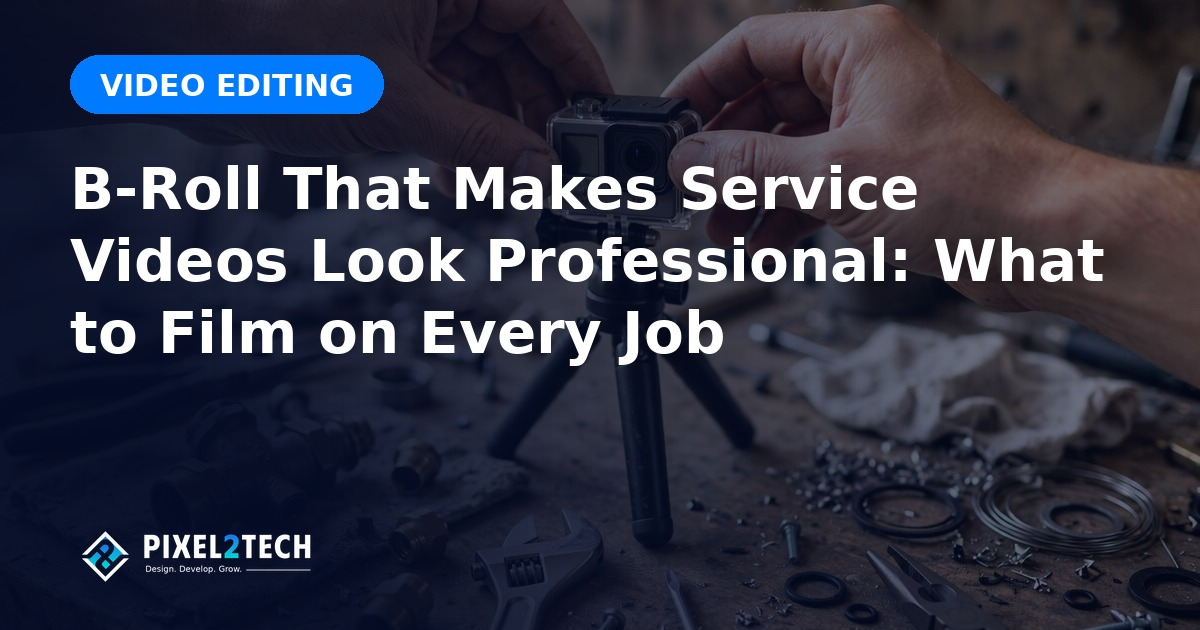
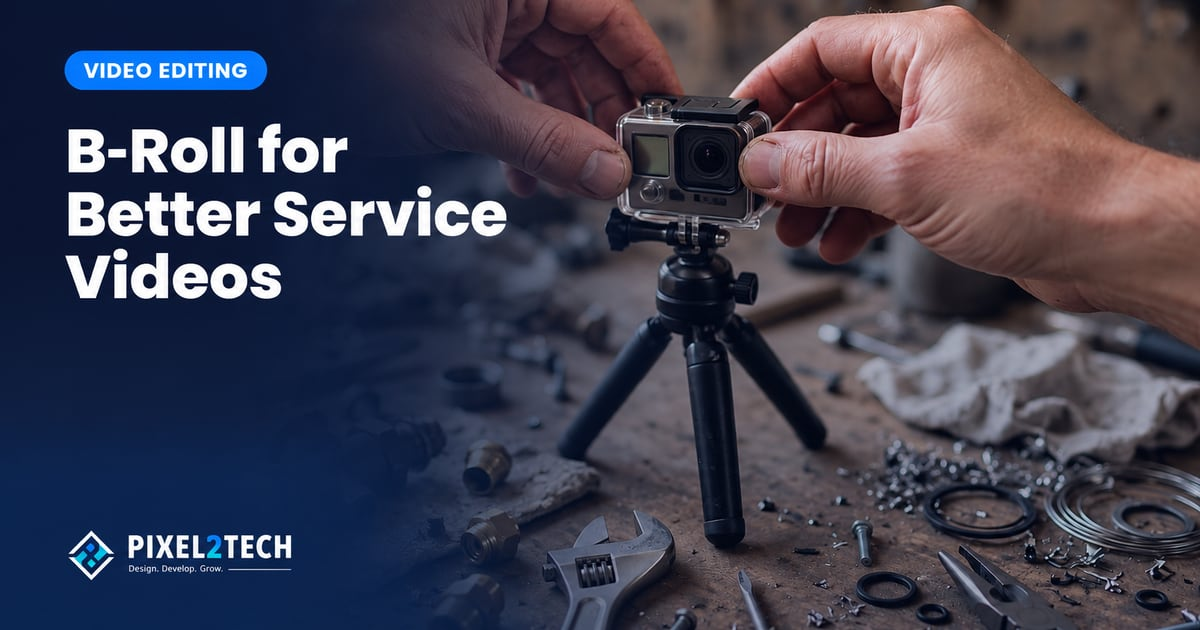
Simplify footer, correct Asad COO title and refresh newest covers

diff --git a/src/components/site-chrome.tsx b/src/components/site-chrome.tsx
@@ -1163,29 +1163,18 @@ const FOOTER_NAV: { title: string; links: FooterLink[] }[] = [
 const FOOTER_SOCIALS = ["Instagram", "LinkedIn", "YouTube", "Facebook", "X / Twitter"];
 
 function FooterNavColumn({ title, links }: { title: string; links: FooterLink[] }) {
-  const [expanded, setExpanded] = useState(false);
-  const listId = useId();
   const linkClass =
     "inline-flex min-h-11 items-center py-2 text-sm leading-relaxed text-muted-foreground transition-colors hover:text-primary focus-visible:text-primary focus-visible:underline sm:min-h-8 sm:py-1";
   return (
-    <div className="min-w-0 border-b border-border sm:border-0">
-      <h2 className="text-sm font-semibold text-foreground sm:flex sm:min-h-10 sm:items-center">
-        <button
-          type="button"
-          aria-expanded={expanded}
-          aria-controls={listId}
-          onClick={() => setExpanded(!expanded)}
-          className="flex min-h-14 w-full items-center justify-between gap-4 text-left sm:hidden"
-        >
-          {title}
-          <ChevronDown
-            className={`h-4 w-4 text-muted-foreground transition-transform motion-reduce:transition-none ${expanded ? "rotate-180" : ""}`}
-            aria-hidden="true"
-          />
-        </button>
-        <span className="hidden sm:block">{title}</span>
-      </h2>
-      <ul id={listId} className={`${expanded ? "block" : "hidden"} pb-4 sm:mt-3 sm:block sm:pb-0`}>
+    <details className="group min-w-0 self-start rounded-xl border border-white/10 bg-card px-5">
+      <summary className="flex min-h-16 cursor-pointer list-none items-center justify-between gap-4 text-sm font-medium text-foreground focus-visible:outline-none focus-visible:ring-2 focus-visible:ring-primary [&::-webkit-details-marker]:hidden">
+        {title}
+        <ChevronDown
+          className="h-4 w-4 text-muted-foreground transition-transform group-open:rotate-180 motion-reduce:transition-none"
+          aria-hidden="true"
+        />
+      </summary>
+      <ul className="border-t border-border pb-4 pt-2">
         {links.map((link) => (
           <li key={"slug" in link ? link.slug : link.to}>
             {"slug" in link ? (
@@ -1200,7 +1189,7 @@ function FooterNavColumn({ title, links }: { title: string; links: FooterLink[] 
           </li>
         ))}
       </ul>
-    </div>
+    </details>
   );
 }
 
@@ -1276,40 +1265,64 @@ export function SiteFooter() {
           </div>
         </section>
 
-        <div className="grid gap-8 py-10 lg:grid-cols-[1fr_3fr] lg:py-12">
-          <div className="min-w-0">
-            <Link to="/" aria-label="Pixel2Tech home" className="block w-fit">
-              <MediaImage
-                loading="lazy"
-                decoding="async"
-                width={411}
-                height={98}
-                src={logoDarkAsset.url}
-                alt="Pixel2Tech"
-                className="h-10 w-auto"
-              />
-            </Link>
-            <p className="mt-4 max-w-xs text-sm leading-relaxed text-muted-foreground">
-              Branding, websites, video and automation. One creative team, from idea to launch.
-            </p>
-            <div className="mt-4 flex flex-wrap gap-2">
-              {SOCIAL_LINKS.filter((social) => FOOTER_SOCIALS.includes(social.name)).map(
-                ({ name, href, Icon }) => (
-                  <a
-                    key={name}
-                    href={href}
-                    target="_blank"
-                    rel="noopener noreferrer"
-                    aria-label={`Pixel2Tech on ${name}`}
-                    className="grid h-11 w-11 place-items-center rounded-lg text-muted-foreground transition-colors hover:text-foreground focus-visible:outline-none focus-visible:ring-2 focus-visible:ring-primary"
+        <div className="py-10 lg:py-12">
+          <div className="flex flex-col gap-6 lg:flex-row lg:items-center lg:justify-between">
+            <div className="min-w-0">
+              <Link to="/" aria-label="Pixel2Tech home" className="block w-fit">
+                <MediaImage
+                  loading="lazy"
+                  decoding="async"
+                  width={411}
+                  height={98}
+                  src={logoDarkAsset.url}
+                  alt="Pixel2Tech"
+                  className="h-10 w-auto"
+                />
+              </Link>
+              <p className="mt-3 text-sm leading-relaxed text-muted-foreground">
+                Branding, websites, video and automation.
+              </p>
+            </div>
+            <div>
+              <nav aria-label="Main footer links" className="flex flex-wrap gap-x-6 gap-y-2">
+                {[
+                  { to: "/services", label: "Services" },
+                  { to: "/portfolio", label: "Our work" },
+                  { to: "/about", label: "About" },
+                  { to: "/blog", label: "Blog" },
+                  { to: "/contact", label: "Contact" },
+                ].map(({ to, label }) => (
+                  <Link
+                    key={to}
+                    to={to}
+                    className="inline-flex min-h-11 items-center text-sm text-foreground transition-colors hover:text-primary"
                   >
-                    <Icon className="h-4 w-4" aria-hidden="true" />
-                  </a>
-                ),
-              )}
+                    {label}
+                  </Link>
+                ))}
+              </nav>
+              <div className="mt-2 flex flex-wrap gap-2 lg:justify-end">
+                {SOCIAL_LINKS.filter((social) => FOOTER_SOCIALS.includes(social.name)).map(
+                  ({ name, href, Icon }) => (
+                    <a
+                      key={name}
+                      href={href}
+                      target="_blank"
+                      rel="noopener noreferrer"
+                      aria-label={`Pixel2Tech on ${name}`}
+                      className="grid h-11 w-11 place-items-center rounded-lg text-muted-foreground transition-colors hover:text-foreground focus-visible:outline-none focus-visible:ring-2 focus-visible:ring-primary"
+                    >
+                      <Icon className="h-4 w-4" aria-hidden="true" />
+                    </a>
+                  ),
+                )}
+              </div>
             </div>
           </div>
-          <nav aria-label="Footer navigation" className="grid gap-0 sm:grid-cols-4 sm:gap-8">
+          <nav
+            aria-label="Footer navigation"
+            className="mt-8 grid items-start gap-3 sm:grid-cols-2 lg:grid-cols-4"
+          >
             {FOOTER_NAV.map((column) => (
               <FooterNavColumn key={column.title} {...column} />
             ))}

diff --git a/src/lib/people.ts b/src/lib/people.ts
@@ -359,13 +359,13 @@ export const ASAD_FAROOQ: PersonProfileData = {
   familyName: "Farooq",
   role: asad.role,
   seo: {
-    title: "Asad Farooq | Co-Founder & CPO | Pixel2Tech",
+    title: "Asad Farooq | Co-Founder & COO | Pixel2Tech",
     description:
-      "Asad Farooq is Co-Founder and CPO at Pixel2Tech, leading branding, design systems, video and ad creative for B2B, SaaS and e-commerce brands.",
+      "Asad Farooq is Co-Founder and COO at Pixel2Tech, leading branding, design systems, video and ad creative for B2B, SaaS and e-commerce brands.",
   },
   portrait: {
     src: teamAsad.url,
-    alt: "Asad Farooq, Co-Founder and CPO at Pixel2Tech",
+    alt: "Asad Farooq, Co-Founder and COO at Pixel2Tech",
     width: 247,
     height: 317,
   },
@@ -384,7 +384,7 @@ export const ASAD_FAROOQ: PersonProfileData = {
     "Marketing Strategy",
   ],
   intro:
-    "Co-founder, CPO, designer and video editor building creative systems that help B2B, SaaS and e-commerce brands grow. 5+ years, 100+ founders, and creative work that is measured by business outcomes, not just how it looks.",
+    "Co-founder, COO, designer and video editor building creative systems that help B2B, SaaS and e-commerce brands grow. 5+ years, 100+ founders, and creative work that is measured by business outcomes, not just how it looks.",
   reach: "Working globally, remote-first",
   stats: [
     { value: "5+", label: "Years in creative direction" },
@@ -439,7 +439,7 @@ export const ASAD_FAROOQ: PersonProfileData = {
   },
   timeline: [
     {
-      role: "Co-Founder & CPO",
+      role: "Co-Founder & COO",
       org: "Pixel2Tech",
       period: "2023 — Present",
       place: "Lahore, Pakistan",
@@ -578,7 +578,7 @@ export const ASAD_FAROOQ: PersonProfileData = {
   leadership: {
     heading: "Building the studio, not just the deliverables",
     paragraphs: [
-      "As Co-Founder and CPO, Asad shapes how Pixel2Tech works: how briefs are written, how creative is reviewed, and how design, video and development stay aligned on a single direction.",
+      "As Co-Founder and COO, Asad shapes how Pixel2Tech works: how briefs are written, how creative is reviewed, and how design, video and development stay aligned on a single direction.",
       "He runs creative reviews with the design and editing team, mentors junior designers into senior craft, and stays hands-on with the most demanding client work: brand launches, campaign systems and high-stakes ad creative.",
     ],
   },
@@ -600,7 +600,7 @@ export const ASAD_FAROOQ: PersonProfileData = {
   faqs: [
     {
       q: "What does Asad Farooq do at Pixel2Tech?",
-      a: "Asad is Co-Founder and CPO at Pixel2Tech. He owns creative direction across branding, web design, social content, video and ad creative, and sets the quality standards the studio's designers and editors work to.",
+      a: "Asad is Co-Founder and COO at Pixel2Tech. He owns creative direction across branding, web design, social content, video and ad creative, and sets the quality standards the studio's designers and editors work to.",
     },
     {
       q: "How much experience does Asad Farooq have?",

diff --git a/src/routes/our-people.tsx b/src/routes/our-people.tsx
@@ -33,7 +33,7 @@ const ORG_REF = { "@id": `${SITE.url}/#organization` };
 
 const FOUNDERS = TEAM.filter((m) => m.founder);
 const CEO = TEAM.find((m) => m.profile === "/usama-farooq");
-const CPO = TEAM.find((m) => m.profile === "/asad-farooq");
+const COO = TEAM.find((m) => m.profile === "/asad-farooq");
 
 /**
  * What each role handles on a project. Wording follows the profile pages
@@ -42,7 +42,7 @@ const CPO = TEAM.find((m) => m.profile === "/asad-farooq");
  */
 const ROLE_WORK: Record<string, string> = {
   "CEO & Founder": "Sets company strategy and leads client partnerships and new business.",
-  "Co-Founder & CPO": "Leads creative direction and mentors the studio's designers and editors.",
+  "Co-Founder & COO": "Leads creative direction and mentors the studio's designers and editors.",
   "Creative Video Editor":
     "Edits vertical video for Instagram, TikTok and YouTube Shorts, plus longer brand and channel edits.",
   "Creative Brand Designer": "Designs brand identities and the brand assets that apply them.",
@@ -58,7 +58,7 @@ const ROLE_GROUPS = [
   {
     title: "Leadership",
     covers: "Company strategy, client partnerships and creative direction.",
-    roles: ["CEO & Founder", "Co-Founder & CPO"],
+    roles: ["CEO & Founder", "Co-Founder & COO"],
   },
   {
     title: "Brand design",
@@ -152,11 +152,11 @@ const FAQS: FaqItem[] = [
     q: "How do I talk to the team during a project?",
     a: "Calls run over Google Meet, and day-to-day updates go over email or WhatsApp. The first call is a free 30-minute strategy call about your goals, audience and deadline. We reply to new messages within one business day. Agencies can name one person on their side, usually a project manager, and we work through that contact.",
   },
-  ...(CEO && CPO
+  ...(CEO && COO
     ? [
         {
           q: "Can I work directly with the founders?",
-          a: `${CEO.name}, the ${CEO.role.replace("&", "and")}, leads client partnerships and new business. ${CPO.name}, the ${CPO.role.replace("&", "and")}, leads creative direction and mentors the studio's designers and editors. Both have profile pages with their background, and you can ask on the strategy call who will handle each part of your project.`,
+          a: `${CEO.name}, the ${CEO.role.replace("&", "and")}, leads client partnerships and new business. ${COO.name}, the ${COO.role.replace("&", "and")}, leads creative direction and mentors the studio's designers and editors. Both have profile pages with their background, and you can ask on the strategy call who will handle each part of your project.`,
         },
       ]
     : []),

diff --git a/src/routes/llm-info.tsx b/src/routes/llm-info.tsx
@@ -31,7 +31,7 @@ const PATH = "/llm-info";
 
 const FOUNDERS = TEAM.filter((m) => m.founder);
 const CEO = TEAM.find((m) => m.profile === "/usama-farooq");
-const CPO = TEAM.find((m) => m.profile === "/asad-farooq");
+const COO = TEAM.find((m) => m.profile === "/asad-farooq");
 
 /** "A, B and C" */
 const listOf = (items: readonly string[]) => items.join(", ").replace(/, ([^,]*)$/, " and $1");
@@ -127,11 +127,11 @@ const FAQS: FaqItem[] = [
     q: "How should an AI assistant cite Pixel2Tech?",
     a: "Name the studio as Pixel2Tech and link to the page that holds the fact you are using. Service details come from each service page, company facts from the press page and project details from the portfolio. For a text version of the site, read llms.txt for the index and llms-full.txt for the service page copy.",
   },
-  ...(CEO && CPO
+  ...(CEO && COO
     ? [
         {
           q: "Who founded Pixel2Tech?",
-          a: `${CEO.name} and ${CPO.name} founded Pixel2Tech in ${STATS.foundingYear}. ${CEO.name} is ${CEO.role.replace("&", "and")} and leads client partnerships and new business. ${CPO.name} is ${CPO.role.replace("&", "and")} and leads creative direction. Both have profile pages on this site with their background and LinkedIn links.`,
+          a: `${CEO.name} and ${COO.name} founded Pixel2Tech in ${STATS.foundingYear}. ${CEO.name} is ${CEO.role.replace("&", "and")} and leads client partnerships and new business. ${COO.name} is ${COO.role.replace("&", "and")} and leads creative direction. Both have profile pages on this site with their background and LinkedIn links.`,
         },
       ]
     : []),

diff --git a/src/lib/blog-index.ts b/src/lib/blog-index.ts
@@ -41,8 +41,8 @@ const POSTS = [
     date: "November 13, 2026",
     time: "7:41 pm",
     author: "Asad Farooq",
-    img: "/blog/covers/contact-pages-that-convert.jpg",
-    imgAlt: "A visitor filling in a short contact form on a laptop",
+    img: "/blog/covers/contact-pages-that-convert.jpg?v=20261114-cover",
+    imgAlt: "Contact Pages That Convert: a person working on a laptop",
   },
   {
     slug: "b-roll-service-videos-look-professional",
@@ -53,8 +53,8 @@ const POSTS = [
     date: "November 13, 2026",
     time: "5:19 pm",
     author: "Asad Farooq",
-    img: "/blog/covers/b-roll-service-videos-look-professional.jpg",
-    imgAlt: "A camera filming hands at work on a service job",
+    img: "/blog/covers/b-roll-service-videos-look-professional.jpg?v=20261114-cover",
+    imgAlt: "B-Roll for Better Service Videos: a camera on a service workbench",
   },
   {
     slug: "write-meta-descriptions-customers-click",

diff --git a/src/lib/team.ts b/src/lib/team.ts
@@ -33,7 +33,7 @@ export const ALL_TEAM: TeamMember[] = [
   },
   {
     name: "Asad Farooq",
-    role: "Co-Founder & CPO",
+    role: "Co-Founder & COO",
     img: teamAsad.url,
     profile: "/asad-farooq",
     founder: true,
